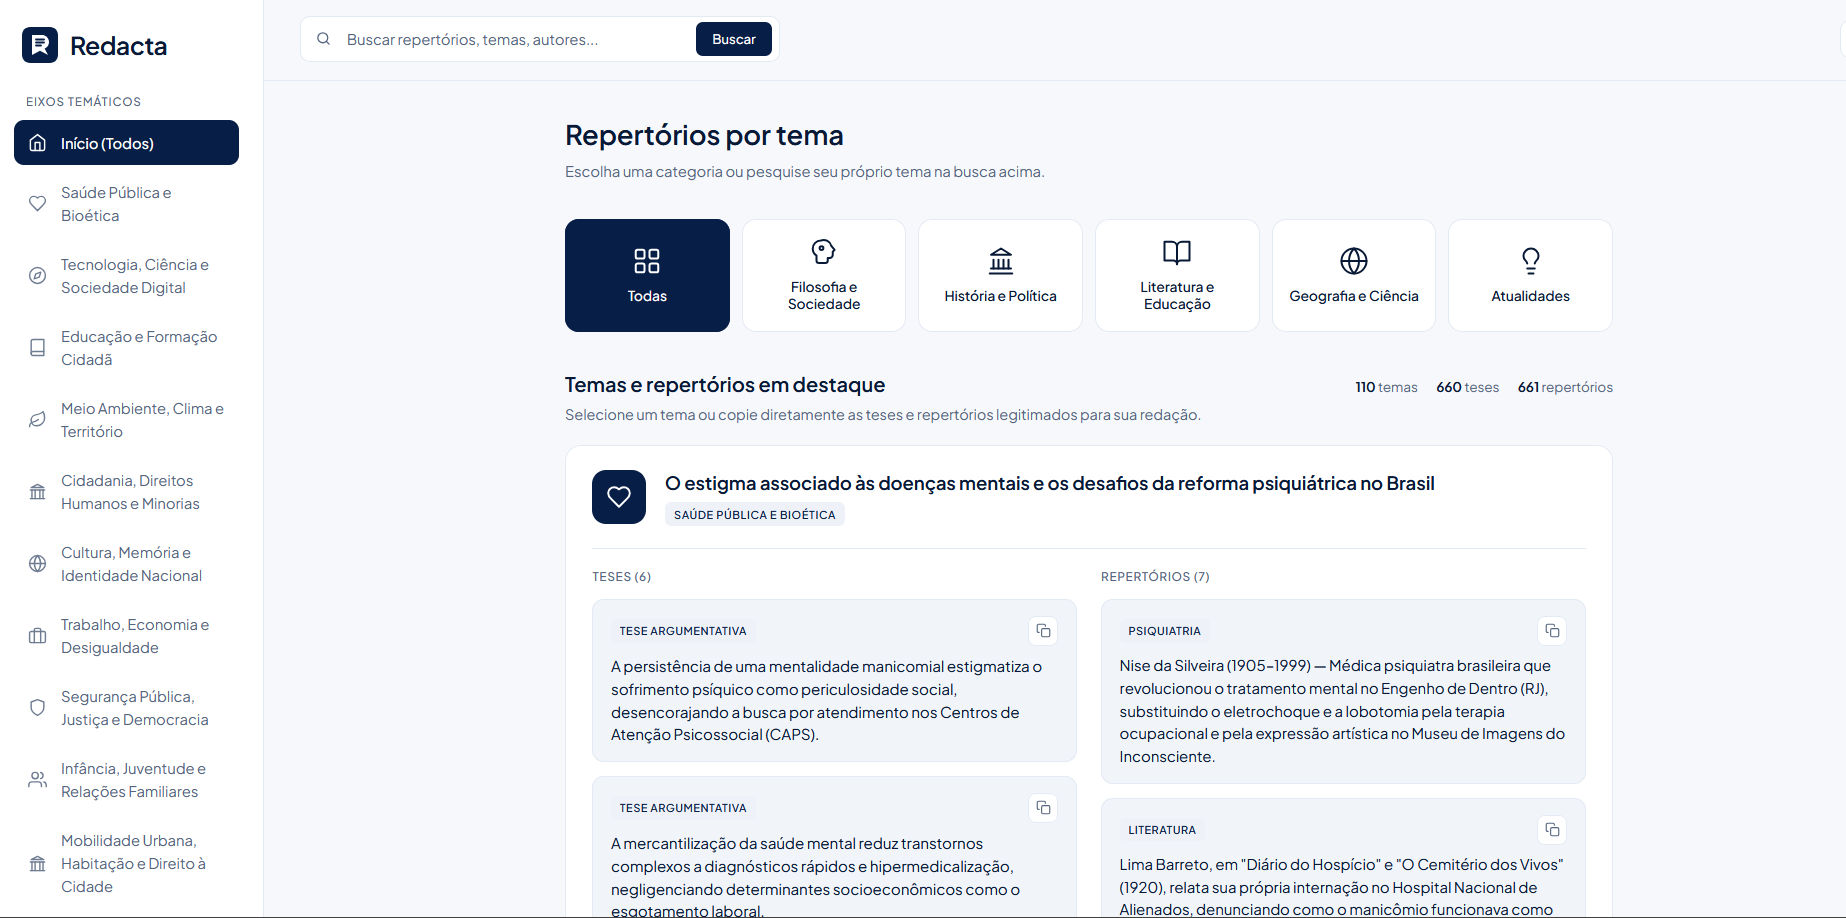
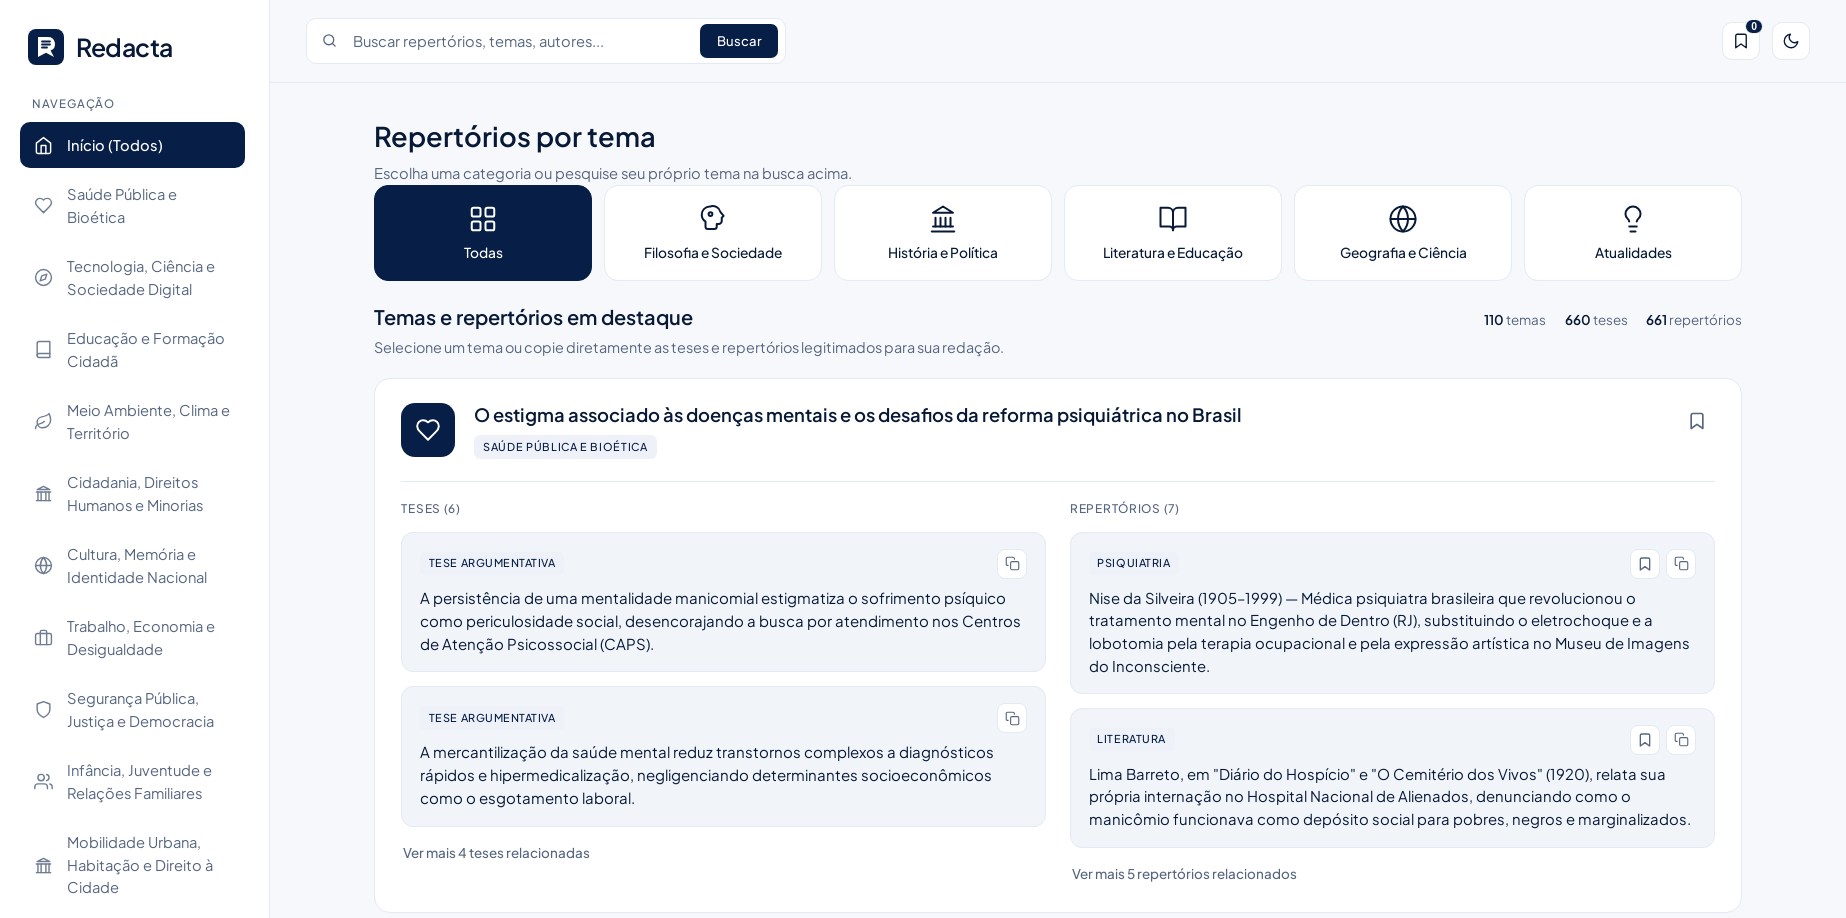
docs: preparar repositorio para publicacao
- adiciona licenca MIT
- adiciona backend/.env.example (e libera no .gitignore)
- README: rotas e tabela de favoritos, como rodar localmente, PWA, estrutura atual
- atualiza preview.png com a interface atual

diff --git a/README.md b/README.md
@@ -65,6 +65,12 @@ flowchart LR
 | `GET` | `/api/temas/:id` | Tema com argumentos e repertórios |
 | `GET` | `/api/temas/busca` | Busca por termo, tema ou palavra-chave |
 | `GET` | `/api/temas/recomendar` | Sugestões de temas |
+| `GET` | `/api/favoritos?user=` | Favoritos (temas e repertórios) de um usuário anônimo |
+| `POST` | `/api/favoritos` | Salva um favorito: `{ user, tema_id }` ou `{ user, repertorio_id }` (idempotente) |
+| `DELETE` | `/api/favoritos/:id?user=` | Remove um favorito pelo id |
+| `DELETE` | `/api/favoritos?user=&tema_id=` | Remove por `tema_id` ou `repertorio_id` |
+
+> Os favoritos são ligados a um identificador anônimo gerado por navegador (sem login) e também ficam no `localStorage`.
 
 ---
 
@@ -80,6 +86,7 @@ PostgreSQL hospedado no **Supabase**. Os scripts ficam em [`backend/sql`](backen
 | `repertorios` | id, categoria, conteudo |
 | `tema_argumento` | tema_id, argumento_id (N:N) |
 | `argumento_repertorio` | argumento_id, repertorio_id (N:N) |
+| `favoritos` | id, tema_id **ou** repertorio_id, user_identifier, created_at |
 
 <details>
 <summary>Ver o diagrama de relacionamento das tabelas</summary>
@@ -91,6 +98,8 @@ erDiagram
     ARGUMENTOS ||--o{ TEMA_ARGUMENTO : "aparece em"
     ARGUMENTOS ||--o{ ARGUMENTO_REPERTORIO : usa
     REPERTORIOS ||--o{ ARGUMENTO_REPERTORIO : "sustenta"
+    TEMAS ||--o{ FAVORITOS : "favoritado em"
+    REPERTORIOS ||--o{ FAVORITOS : "favoritado em"
 ```
 
 </details>
@@ -103,6 +112,33 @@ erDiagram
 - **Backend:** Node.js com Express 5, `cors`, `dotenv` e `pg`
 - **Banco de dados:** PostgreSQL (Supabase)
 - **Deploy:** Vercel (`@vercel/node` para a API e `@vercel/static` para o frontend)
+- **App instalável (PWA):** manifesto + service worker; abre offline o que já foi visitado
+
+---
+
+## Como rodar localmente
+
+Pré-requisitos: Node.js 18+ e um banco PostgreSQL (o projeto usa o Supabase).
+
+```bash
+cd backend
+npm install
+cp .env.example .env     # preencha DB_USER, DB_PASS, DB_HOST, DB_PORT e DB_NAME
+```
+
+1. No SQL Editor do banco, rode [`backend/sql/create_tables.sql`](backend/sql/create_tables.sql) e depois [`backend/sql/seed.sql`](backend/sql/seed.sql).
+2. Suba o servidor, que também serve o frontend:
+
+```bash
+npm start                # http://localhost:3000
+npm test                 # testes do motor de recomendação
+```
+
+Sem o backend local, o frontend (aberto por outra porta ou por `file:`) usa a API publicada na Vercel.
+
+### Instalar como app
+
+No Android (Chrome), use **⋮ → Instalar app**. No iPhone (Safari), **Compartilhar → Adicionar à Tela de Início**.
 
 ---
 
@@ -114,19 +150,32 @@ erDiagram
 ```text
 redacta/
 ├── backend/
-│   ├── server.js            API Express (rotas e busca)
+│   ├── server.js            API Express (rotas, busca e favoritos)
+│   ├── recomendacao.js      motor de recomendação por relevância
 │   ├── db.js                conexão com o PostgreSQL
-│   └── sql/
-│       ├── create_tables.sql
-│       └── seed.sql         eixos, temas, argumentos e repertórios
+│   ├── .env.example         modelo das variáveis de ambiente
+│   ├── sql/
+│   │   ├── create_tables.sql
+│   │   └── seed.sql         eixos, temas, argumentos e repertórios
+│   └── test/                testes do motor de recomendação
 ├── frontend/
 │   ├── index.html
 │   ├── app.js
-│   └── styles.css
+│   ├── styles.css
+│   ├── manifest.json        PWA: nome, cores e ícones
+│   ├── sw.js                PWA: service worker (cache offline)
+│   └── icons/               ícones do app
 ├── docs/                    escopo, fases e fluxo de trabalho
 ├── PRODUCT.md
 ├── vercel.json
+├── LICENSE
 └── README.md
 ```
 
 </details>
+
+---
+
+## Licença
+
+Distribuído sob a licença [MIT](LICENSE).
